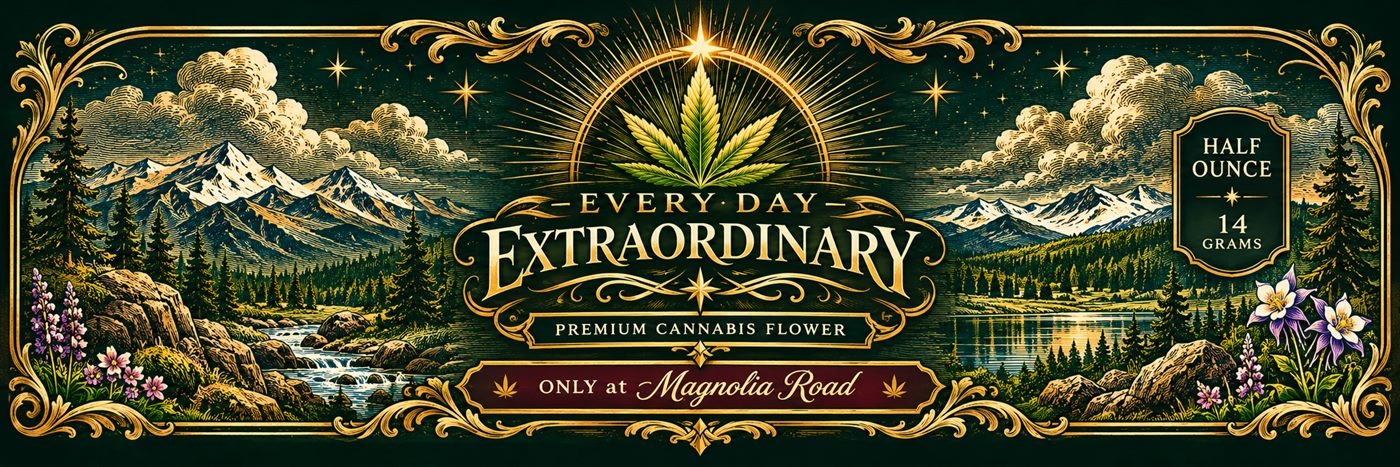
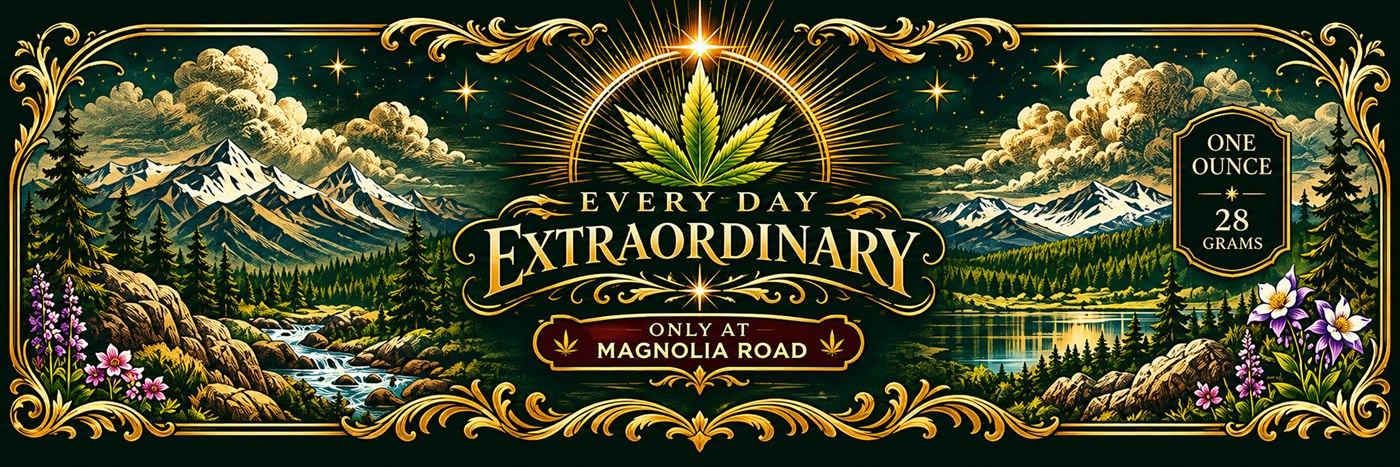
Publish 2026-11-17 22:42

diff --git a/index.html b/index.html
@@ -222,7 +222,7 @@ body.editing [data-box] [contenteditable="true"]{cursor:text}
     <nav class="pager" aria-label="Pages">
       <a class="lbl" href="#price-war">1 · Escaping the price war</a>
       <a class="lbl" href="#every-day-extraordinary">2 · Summit vs Every Day Extraordinary</a>
-      <a class="lbl" href="#quarter">3 · Dro vs Rain Forest / Inferno</a>
+      <a class="lbl" href="#quarter">3 · Dro vs Inferno / Rain Forest</a>
       <a class="num" href="#price-war">1</a><a class="num" href="#every-day-extraordinary">2</a><a class="num" href="#quarter">3</a>
     </nav>
     <button type="button" class="lock" id="lockBtn" aria-pressed="false" title="Unlock to edit any text, its color, size and box fill">
@@ -283,9 +283,9 @@ body.editing [data-box] [contenteditable="true"]{cursor:text}
 <!-- PAGE 2 -->
 <section class="page" id="every-day-extraordinary">
   <div class="wrap">
-    <p class="pagenum">Page 2 of 3 · Brand one · Half ounce, value tier</p>
+    <p class="pagenum">Page 2 of 3 · Brand one · Value tier</p>
     <div class="float"><h2><span class="t-theirs">Summit</span><span class="t-reveal" data-reveal-title="ede-reveal" hidden> <span class="t-vs">vs</span> <span class="t-ours">Every Day Extraordinary</span></span></h2></div>
-    <p class="lede">Same customer, same shelf slot, same small-bud half ounce. One can be bought anywhere. One only here.</p>
+    <p class="lede">Same customer, same shelf slot, same small-bud grade. One can be bought anywhere. One only here.</p>
     <div class="stack">
       <div class="bb theirs">
         <div class="bb-head">
@@ -310,10 +310,10 @@ body.editing [data-box] [contenteditable="true"]{cursor:text}
       <button type="button" class="reveal" aria-expanded="false" aria-controls="ede-reveal" data-reveal="ede-reveal" data-show="Potential Magnolia Road Alternative" data-hide="Hide Every Day Extraordinary"><span>Potential Magnolia Road Alternative</span><svg width="18" height="18" viewBox="0 0 18 18" fill="none" stroke="currentColor" stroke-width="2.2" stroke-linecap="round" stroke-linejoin="round"><path d="M4 7l5 5 5-5"/></svg></button>
       <div class="reveal-wrap" id="ede-reveal" hidden>
       <div class="bb ours">
-        <div class="label"><img src="img/ede.jpg" alt="Every Day Extraordinary label: gold engraved mountains, half ounce, 14 grams, only at Magnolia Road" width="1400" height="467"></div>
+        <div class="label"><img src="img/ede.jpg" alt="Every Day Extraordinary label: gold engraved mountains over a lake, one ounce, 28 grams, only at Magnolia Road" width="1400" height="467"></div>
         <div class="bb-head">
-          <div class="name"><span class="kicker">What they buy instead</span><div class="row"><b>Every Day Extraordinary</b><span class="spec"><span data-size-label>14 g half oz</span><i>·</i><span>Small buds, same grade</span></span></div></div>
-          <div class="right"><span class="sizes" role="group" aria-label="Every Day Extraordinary size"><button type="button" data-size="14" aria-pressed="true">14 g</button><button type="button" data-size="28" aria-pressed="false">28 g</button></span><span class="pill ours">Only at Magnolia Road</span></div>
+          <div class="name"><span class="kicker">What they buy instead</span><div class="row"><b>Every Day Extraordinary</b><span class="spec"><span>28 g full oz</span><i>·</i><span>Small buds, same grade</span></span></div></div>
+          <div class="right"><span class="pill ours">Only at Magnolia Road</span></div>
         </div>
         <div class="attrs">
           <div class="attr win"><span class="t">Where it's sold</span><b>Magnolia Road only</b></div>
@@ -329,7 +329,7 @@ body.editing [data-box] [contenteditable="true"]{cursor:text}
         </div>
       </div>
 
-      <div class="verdict"><b>Same half ounce. Same customer. Only one of them can be price-shopped.</b><span>Summit is on every menu app in Colorado, so its price is set by whoever runs the deepest promo. Every Day Extraordinary is sold at Magnolia Road and nowhere else: a direct, better alternative with nothing online to compare it to, and the first step toward not needing Summit on the shelf at all.</span></div>
+      <div class="verdict"><b>Same customer. Same small buds. Only one of them can be price-shopped.</b><span>Summit is on every menu app in Colorado, so its price is set by whoever runs the deepest promo. Every Day Extraordinary is sold at Magnolia Road and nowhere else: a direct, better alternative with nothing online to compare it to, and the first step toward not needing Summit on the shelf at all.</span></div>
       </div>
     </div>
     <div class="foot"><span>Gross margin = (out the door − purchase price) ÷ out the door. Pre-filled figures are placeholders, not a quote. Unlock (top right) to edit any text, its color, size and font, and the fill of its box.</span><button type="button" data-reset>Reset figures and text</button></div>
@@ -340,8 +340,8 @@ body.editing [data-box] [contenteditable="true"]{cursor:text}
 <section class="page" id="quarter">
   <div class="wrap">
     <p class="pagenum">Page 3 of 3 · Brand two · Quarter ounce, premium tier</p>
-    <div class="float"><h2><span class="t-theirs">Dro</span><span class="t-reveal" data-reveal-title="og-reveal" hidden> <span class="t-vs">vs</span> <span class="t-ours">Rain Forest <span class="t-or">or</span> Inferno</span></span></h2></div>
-    <p class="lede">The top-shelf quarter for the customer who pays for premium flower. Two exclusive brands, one price. Dro is on every menu. Rain Forest and Inferno are on yours.</p>
+    <div class="float"><h2><span class="t-theirs">Dro</span><span class="t-reveal" data-reveal-title="og-reveal" hidden> <span class="t-vs">vs</span> <span class="t-ours">Inferno <span class="t-or">or</span> Rain Forest</span></span></h2></div>
+    <p class="lede">The top-shelf quarter for the customer who pays for premium flower. Two exclusive brands, one price. Dro is on every menu. Inferno and Rain Forest are on yours.</p>
     <div class="stack">
       <div class="bb theirs">
         <div class="bb-head">
@@ -363,13 +363,13 @@ body.editing [data-box] [contenteditable="true"]{cursor:text}
         </div>
       </div>
 
-      <button type="button" class="reveal" aria-expanded="false" aria-controls="og-reveal" data-reveal="og-reveal" data-show="Potential Magnolia Road Alternative" data-hide="Hide Rain Forest / Inferno"><span>Potential Magnolia Road Alternative</span><svg width="18" height="18" viewBox="0 0 18 18" fill="none" stroke="currentColor" stroke-width="2.2" stroke-linecap="round" stroke-linejoin="round"><path d="M4 7l5 5 5-5"/></svg></button>
+      <button type="button" class="reveal" aria-expanded="false" aria-controls="og-reveal" data-reveal="og-reveal" data-show="Potential Magnolia Road Alternative" data-hide="Hide Inferno / Rain Forest"><span>Potential Magnolia Road Alternative</span><svg width="18" height="18" viewBox="0 0 18 18" fill="none" stroke="currentColor" stroke-width="2.2" stroke-linecap="round" stroke-linejoin="round"><path d="M4 7l5 5 5-5"/></svg></button>
       <div class="reveal-wrap" id="og-reveal" hidden>
       <div class="bb ours">
-        <div class="label"><img data-brand-img alt="" hidden><div class="ph" data-brand-ph><span class="kicker">Label coming</span><b>Rain Forest</b><span>Quarter ounce · 7 g · Only at Magnolia Road</span></div></div>
+        <div class="label"><img data-brand-img alt="" hidden><div class="ph" data-brand-ph><span class="kicker">Label coming</span><b>Inferno</b><span>Quarter ounce · 7 g · Only at Magnolia Road</span></div></div>
         <div class="bb-head">
-          <div class="name"><span class="kicker">What they buy instead</span><div class="row"><b data-brand-name>Rain Forest</b><span class="spec"><span>7 g quarter oz</span><i>·</i><span>Premium flower, same tier</span></span></div></div>
-          <div class="right"><span class="sizes" role="group" aria-label="Quarter ounce brand"><button type="button" data-brand="rainforest" aria-pressed="true">Rain Forest</button><button type="button" data-brand="inferno" aria-pressed="false">Inferno</button></span><span class="pill ours">Only at Magnolia Road</span></div>
+          <div class="name"><span class="kicker">What they buy instead</span><div class="row"><b data-brand-name>Inferno</b><span class="spec"><span>7 g quarter oz</span><i>·</i><span>Premium flower, same tier</span></span></div></div>
+          <div class="right"><span class="sizes" role="group" aria-label="Quarter ounce brand"><button type="button" data-brand="inferno" aria-pressed="true">Inferno</button><button type="button" data-brand="rainforest" aria-pressed="false">Rain Forest</button></span><span class="pill ours">Only at Magnolia Road</span></div>
         </div>
         <div class="attrs">
           <div class="attr win"><span class="t">Where it's sold</span><b>Magnolia Road only</b></div>
@@ -378,14 +378,14 @@ body.editing [data-box] [contenteditable="true"]{cursor:text}
           <div class="attr win"><span class="t">Who sets the price</span><b>Magnolia Road</b></div>
         </div>
         <div class="pricing">
-          <div class="attr"><span class="t">Purchase price</span><div class="money"><span>$</span><input id="alt7-cost" data-sku="alt7" data-f="cost" type="number" inputmode="decimal" min="0" step="0.01" aria-label="Rain Forest or Inferno purchase price"></div></div>
-          <div class="attr"><span class="t">Out the door</span><div class="money"><span>$</span><input id="alt7-otd" data-sku="alt7" data-f="otd" type="number" inputmode="decimal" min="0" step="0.01" aria-label="Rain Forest or Inferno out-the-door price"></div></div>
+          <div class="attr"><span class="t">Purchase price</span><div class="money"><span>$</span><input id="alt7-cost" data-sku="alt7" data-f="cost" type="number" inputmode="decimal" min="0" step="0.01" aria-label="Inferno or Rain Forest purchase price"></div></div>
+          <div class="attr"><span class="t">Out the door</span><div class="money"><span>$</span><input id="alt7-otd" data-sku="alt7" data-f="otd" type="number" inputmode="decimal" min="0" step="0.01" aria-label="Inferno or Rain Forest out-the-door price"></div></div>
           <div class="attr"><span class="t">Gross margin</span><span class="big" data-out="alt7:pct">—</span><span class="sub" data-out="alt7:m"></span></div>
-          <div class="attr vol"><span class="t">Monthly volume vs monthly gross margin</span><div class="volrow"><div class="money"><input id="alt7-vol" data-sku="alt7" data-f="vol" type="number" inputmode="numeric" min="0" step="1" placeholder="units" aria-label="Rain Forest or Inferno monthly volume in units"><span>/ mo</span></div><div class="volout"><span class="big" data-out="alt7:mm">—</span><span class="sub">/ month</span></div></div></div>
+          <div class="attr vol"><span class="t">Monthly volume vs monthly gross margin</span><div class="volrow"><div class="money"><input id="alt7-vol" data-sku="alt7" data-f="vol" type="number" inputmode="numeric" min="0" step="1" placeholder="units" aria-label="Inferno or Rain Forest monthly volume in units"><span>/ mo</span></div><div class="volout"><span class="big" data-out="alt7:mm">—</span><span class="sub">/ month</span></div></div></div>
         </div>
       </div>
 
-      <div class="verdict"><b>Same quarter. Same customer. Only one of them can be price-shopped.</b><span>Dro is listed everywhere, so the market sets its price. Rain Forest and Inferno are sold at Magnolia Road and nowhere else: two exclusive alternatives at one price, with nothing online to compare them to, and a path to retiring Dro from the shelf altogether.</span></div>
+      <div class="verdict"><b>Same quarter. Same customer. Only one of them can be price-shopped.</b><span>Dro is listed everywhere, so the market sets its price. Inferno and Rain Forest are sold at Magnolia Road and nowhere else: two exclusive alternatives at one price, with nothing online to compare them to, and a path to retiring Dro from the shelf altogether.</span></div>
       </div>
     </div>
     <div class="foot"><span>Gross margin = (out the door − purchase price) ÷ out the door. Pre-filled figures are placeholders, not a quote. Unlock (top right) to edit any text, its color, size and font, and the fill of its box.</span><button type="button" data-reset>Reset figures and text</button></div>
@@ -454,36 +454,32 @@ body.editing [data-box] [contenteditable="true"]{cursor:text}
   window.__calcMargin = calc;
 
   var DEFAULTS = {
-    ede14:    { cost:20, otd:42 },
     ede28:    { cost:40, otd:84 },
     summit14: { cost:20, otd:45 },
     alt7:     { cost:17.25, otd:40 },
     dro7:     { cost:18.75, otd:40 }
   };
-  var GRAMS = { ede14:14, ede28:28, summit14:14, alt7:7, dro7:7 };
-  var BRANDS = { rainforest:{ name:'Rain Forest', img:'img/rainforest.jpg', w:1400, h:525 }, inferno:{ name:'Inferno', img:'img/inferno.jpg', w:1400, h:525 } };
+  var GRAMS = { ede28:28, summit14:14, alt7:7, dro7:7 };
+  var BRANDS = { inferno:{ name:'Inferno', img:'img/inferno.jpg', w:1400, h:525 }, rainforest:{ name:'Rain Forest', img:'img/rainforest.jpg', w:1400, h:525 } };
   var KEY = 'mr-pricing-v3';
   var usd2 = new Intl.NumberFormat('en-US',{style:'currency',currency:'USD',minimumFractionDigits:2,maximumFractionDigits:2});
   var pctF = function(p){ return (p*100).toFixed(1) + '%'; };
   var usd0 = new Intl.NumberFormat('en-US',{style:'currency',currency:'USD',minimumFractionDigits:0,maximumFractionDigits:0});
 
-  var vals, edeSize, brand;
+  var vals, brand;
   function load(){
-    try{ var raw = localStorage.getItem(KEY); if(raw){ var o = JSON.parse(raw); if(o && o.vals){ vals = o.vals; edeSize = o.edeSize === '28' ? '28' : '14'; brand = BRANDS[o.brand] ? o.brand : 'rainforest'; return; } } }catch(e){}
+    try{ var raw = localStorage.getItem(KEY); if(raw){ var o = JSON.parse(raw); if(o && o.vals){ vals = o.vals; if(!vals.ede28) vals.ede28 = JSON.parse(JSON.stringify(DEFAULTS.ede28)); brand = BRANDS[o.brand] ? o.brand : 'inferno'; return; } } }catch(e){}
     reset();
   }
-  function reset(){ vals = JSON.parse(JSON.stringify(DEFAULTS)); edeSize = '14'; brand = 'rainforest'; }
-  function save(){ try{ localStorage.setItem(KEY, JSON.stringify({ vals: vals, edeSize: edeSize, brand: brand })); }catch(e){} }
-  function key(sku){ return sku === 'ede' ? 'ede' + edeSize : sku; }
+  function reset(){ vals = JSON.parse(JSON.stringify(DEFAULTS)); brand = 'inferno'; }
+  function save(){ try{ localStorage.setItem(KEY, JSON.stringify({ vals: vals, brand: brand })); }catch(e){} }
+  function key(sku){ return sku === 'ede' ? 'ede28' : sku; }
 
   function fill(){
     document.querySelectorAll('input[data-sku]').forEach(function(i){
       var v = vals[key(i.dataset.sku)] || {};
       i.value = v[i.dataset.f] == null ? '' : v[i.dataset.f];
     });
-    document.querySelectorAll('[data-size]').forEach(function(b){ b.setAttribute('aria-pressed', String(b.dataset.size === edeSize)); });
-    var lbl = document.querySelector('[data-size-label]');
-    if(lbl) lbl.textContent = edeSize === '28' ? '28 g full oz' : '14 g half oz';
     var B = BRANDS[brand];
     document.querySelectorAll('[data-brand]').forEach(function(b){ b.setAttribute('aria-pressed', String(b.dataset.brand === brand)); });
     document.querySelectorAll('[data-brand-name]').forEach(function(e){ e.textContent = B.name; });
@@ -518,9 +514,6 @@ body.editing [data-box] [contenteditable="true"]{cursor:text}
       vals[k][i.dataset.f] = i.value; render();
     });
   });
-  document.querySelectorAll('[data-size]').forEach(function(b){
-    b.addEventListener('click', function(){ edeSize = b.dataset.size; fill(); render(); });
-  });
   document.querySelectorAll('[data-brand]').forEach(function(b){
     b.addEventListener('click', function(){ brand = b.dataset.brand; fill(); render(); });
   });
@@ -529,10 +522,18 @@ body.editing [data-box] [contenteditable="true"]{cursor:text}
   var TKEY = 'mr-text-v4', texts = {}, originals = {};
   function readLS(k){ try{ return JSON.parse(localStorage.getItem(k) || '{}') || {}; }catch(e){ return {}; } }
   texts = readLS(TKEY);
+  /* lines whose default wording changed: an edit saved under the old key moves to the new key */
+  var ALIAS = {
+    'every-day-extraordinary:page 2 of 3 brand one half ounce value t': 'every-day-extraordinary:page 2 of 3 brand one value tier',
+    'every-day-extraordinary:same half ounce same customer only one o': 'every-day-extraordinary:same customer same small buds only one o',
+    'every-day-extraordinary:verdict:same half ounce same customer only one o': 'every-day-extraordinary:verdict:same customer same small buds only one o'
+  };
+  function alias(store){ var n = 0; Object.keys(ALIAS).forEach(function(o){ if(store[o] != null){ if(store[ALIAS[o]] == null){ store[ALIAS[o]] = store[o]; } delete store[o]; n++; } }); return n; }
+  if(alias(texts)) saveTexts();
   function saveTexts(){ try{ localStorage.setItem(TKEY, JSON.stringify(texts)); }catch(e){} }
   function slug(t){ return t.trim().toLowerCase().replace(/[^a-z0-9]+/g, ' ').trim().slice(0, 40); }
   function keyed(seen, base){ var c = seen[base] || 0; seen[base] = c + 1; return c ? base + '#' + c : base; }
-  var EDITABLE = '.brandline b, .brandline span, .eyebrow, .hero h1 > span, .hero h1 > em, .hero .lede, .col .kicker, .col h3, .col li > span, .col .punch, .logos span, .tagline, .pagenum, .page > .wrap > .lede, .float h2 .t-theirs, .float h2 .t-ours, .float h2 .t-vs, .float h2 .t-or, .bb-head .kicker, .bb-head b:not([data-brand-name]), .bb-head .spec > span:not([data-size-label]), .pill, .attr > .t, .attrs .attr > b, .verdict > b, .verdict > span, .foot > span';
+  var EDITABLE = '.brandline b, .brandline span, .eyebrow, .hero h1 > span, .hero h1 > em, .hero .lede, .col .kicker, .col h3, .col li > span, .col .punch, .logos span, .tagline, .pagenum, .page > .wrap > .lede, .float h2 .t-theirs, .float h2 .t-ours, .float h2 .t-vs, .float h2 .t-or, .bb-head .kicker, .bb-head b:not([data-brand-name]), .bb-head .spec > span, .pill, .attr > .t, .attrs .attr > b, .verdict > b, .verdict > span, .foot > span';
   var editEls = [], legacy = { cur: {}, old: {} };  /* index keys used by earlier versions of this page */
   document.querySelectorAll('.topbar, .page').forEach(function(pg){
     var id = pg.id || 'top', seen = {}, list = [];
@@ -594,10 +595,13 @@ body.editing [data-box] [contenteditable="true"]{cursor:text}
   var CKEY = 'mr-color-v4', colors = readLS(CKEY), SKEY = 'mr-size-v3', sizes = readLS(SKEY);
   function saveColors(){ try{ localStorage.setItem(CKEY, JSON.stringify(colors)); }catch(e){} }
   function saveSizes(){ try{ localStorage.setItem(SKEY, JSON.stringify(sizes)); }catch(e){} }
+  if(alias(colors)) saveColors();
+  if(alias(sizes)) saveSizes();
   migrate('mr-color-v3', legacy.cur, colors, saveColors);
   migrate('mr-size-v2', legacy.cur, sizes, saveSizes);
   var FKEY = 'mr-font-v1', fonts = readLS(FKEY);
   function saveFonts(){ try{ localStorage.setItem(FKEY, JSON.stringify(fonts)); }catch(e){} }
+  if(alias(fonts)) saveFonts();
   document.querySelectorAll('[data-edit]').forEach(function(el){
     if(colors[el.dataset.edit]) el.style.color = colors[el.dataset.edit];
     if(sizes[el.dataset.edit]) el.style.fontSize = sizes[el.dataset.edit] + '%';
@@ -607,6 +611,7 @@ body.editing [data-box] [contenteditable="true"]{cursor:text}
   /* box fills: background of the pill / tile / box that holds the focused text */
   var BKEY = 'mr-box-v1', fills = readLS(BKEY);
   function saveFills(){ try{ localStorage.setItem(BKEY, JSON.stringify(fills)); }catch(e){} }
+  if(alias(fills)) saveFills();
   document.querySelectorAll('.topbar, .page').forEach(function(pg){
     var id = pg.id || 'top', seen = {};
     pg.querySelectorAll('.pill, .attr, .col, .bb, .verdict').forEach(function(box){
